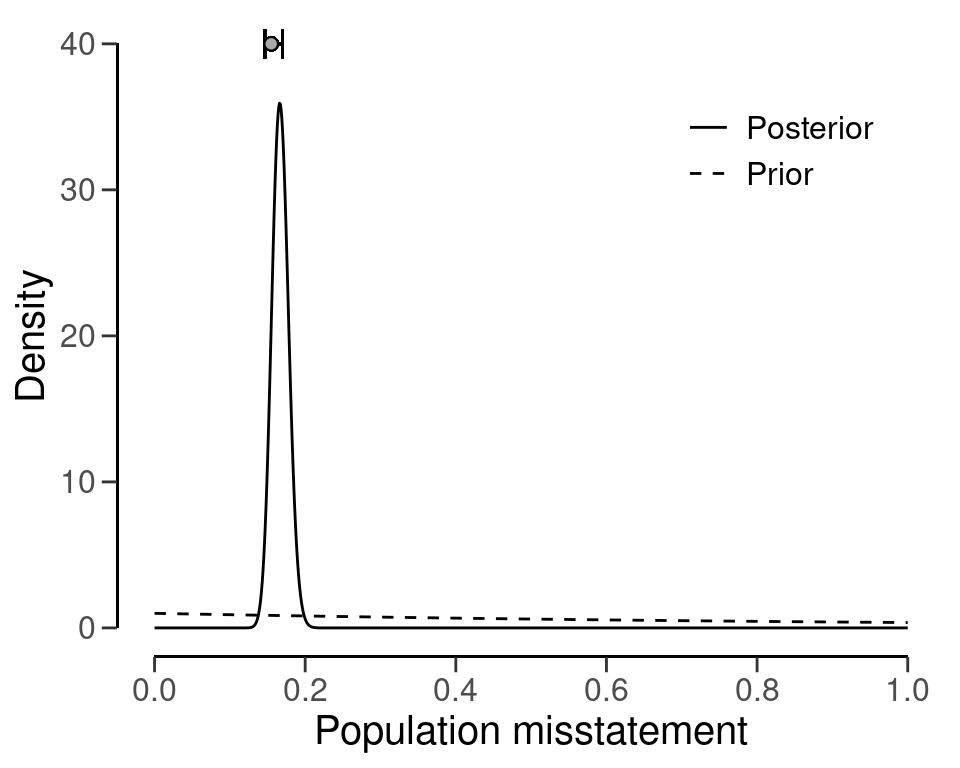
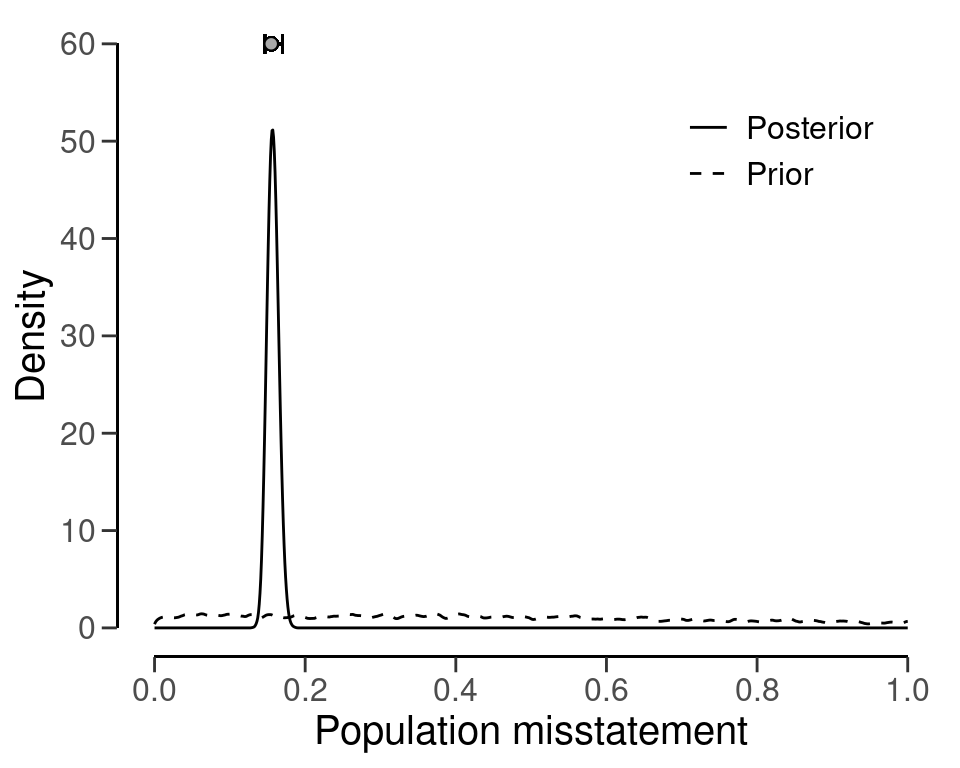
Built site for gh-pages

diff --git a/chap-stratified-evaluation.html b/chap-stratified-evaluation.html
@@ -525,7 +525,7 @@ code span.wa { color: #60a0b0; font-weight: bold; font-style: italic; } /* Warni
 <span id="cb8-10"><a href="#cb8-10" aria-hidden="true" tabindex="-1"></a><span class="co">#&gt;   Materiality:                    0.05 </span></span>
 <span id="cb8-11"><a href="#cb8-11" aria-hidden="true" tabindex="-1"></a><span class="co">#&gt;   Hypotheses:                     H₀: Θ = 0.05 vs. H₁: Θ ≠ 0.05 </span></span>
 <span id="cb8-12"><a href="#cb8-12" aria-hidden="true" tabindex="-1"></a><span class="co">#&gt;   Method:                         binomial </span></span>
-<span id="cb8-13"><a href="#cb8-13" aria-hidden="true" tabindex="-1"></a><span class="co">#&gt;   Prior distribution:             beta(α = 1, β = 1) </span></span>
+<span id="cb8-13"><a href="#cb8-13" aria-hidden="true" tabindex="-1"></a><span class="co">#&gt;   Prior distribution:             Nonparametric </span></span>
 <span id="cb8-14"><a href="#cb8-14" aria-hidden="true" tabindex="-1"></a><span class="co">#&gt; </span></span>
 <span id="cb8-15"><a href="#cb8-15" aria-hidden="true" tabindex="-1"></a><span class="co">#&gt; Data:</span></span>
 <span id="cb8-16"><a href="#cb8-16" aria-hidden="true" tabindex="-1"></a><span class="co">#&gt;   Sample size:                    2575 </span></span>
@@ -533,11 +533,11 @@ code span.wa { color: #60a0b0; font-weight: bold; font-style: italic; } /* Warni
 <span id="cb8-18"><a href="#cb8-18" aria-hidden="true" tabindex="-1"></a><span class="co">#&gt;   Sum of taints:                  115 </span></span>
 <span id="cb8-19"><a href="#cb8-19" aria-hidden="true" tabindex="-1"></a><span class="co">#&gt; </span></span>
 <span id="cb8-20"><a href="#cb8-20" aria-hidden="true" tabindex="-1"></a><span class="co">#&gt; Results:</span></span>
-<span id="cb8-21"><a href="#cb8-21" aria-hidden="true" tabindex="-1"></a><span class="co">#&gt;   Posterior distribution:         beta(α = 116, β = 2461) </span></span>
+<span id="cb8-21"><a href="#cb8-21" aria-hidden="true" tabindex="-1"></a><span class="co">#&gt;   Posterior distribution:         Nonparametric </span></span>
 <span id="cb8-22"><a href="#cb8-22" aria-hidden="true" tabindex="-1"></a><span class="co">#&gt;   Most likely error:              0.0432 </span></span>
 <span id="cb8-23"><a href="#cb8-23" aria-hidden="true" tabindex="-1"></a><span class="co">#&gt;   95 percent credible interval:   [0.034575, 0.052994] </span></span>
 <span id="cb8-24"><a href="#cb8-24" aria-hidden="true" tabindex="-1"></a><span class="co">#&gt;   Precision:                      0.0097941 </span></span>
-<span id="cb8-25"><a href="#cb8-25" aria-hidden="true" tabindex="-1"></a><span class="co">#&gt;   BF₁₀:                            0.022725 </span></span>
+<span id="cb8-25"><a href="#cb8-25" aria-hidden="true" tabindex="-1"></a><span class="co">#&gt;   BF₁₀:                            0.02178 </span></span>
 <span id="cb8-26"><a href="#cb8-26" aria-hidden="true" tabindex="-1"></a><span class="co">#&gt; </span></span>
 <span id="cb8-27"><a href="#cb8-27" aria-hidden="true" tabindex="-1"></a><span class="co">#&gt; Strata (20):</span></span>
 <span id="cb8-28"><a href="#cb8-28" aria-hidden="true" tabindex="-1"></a><span class="co">#&gt;        N   n  x  t    mle      lb      ub precision</span></span>
@@ -676,7 +676,7 @@ code span.wa { color: #60a0b0; font-weight: bold; font-style: italic; } /* Warni
 <span id="cb15-9"><a href="#cb15-9" aria-hidden="true" tabindex="-1"></a><span class="co">#&gt;   Materiality:                    0.05 </span></span>
 <span id="cb15-10"><a href="#cb15-10" aria-hidden="true" tabindex="-1"></a><span class="co">#&gt;   Hypotheses:                     H₀: Θ = 0.05 vs. H₁: Θ ≠ 0.05 </span></span>
 <span id="cb15-11"><a href="#cb15-11" aria-hidden="true" tabindex="-1"></a><span class="co">#&gt;   Method:                         poisson </span></span>
-<span id="cb15-12"><a href="#cb15-12" aria-hidden="true" tabindex="-1"></a><span class="co">#&gt;   Prior distribution:             gamma(α = 1, β = 1) </span></span>
+<span id="cb15-12"><a href="#cb15-12" aria-hidden="true" tabindex="-1"></a><span class="co">#&gt;   Prior distribution:             Nonparametric </span></span>
 <span id="cb15-13"><a href="#cb15-13" aria-hidden="true" tabindex="-1"></a><span class="co">#&gt; </span></span>
 <span id="cb15-14"><a href="#cb15-14" aria-hidden="true" tabindex="-1"></a><span class="co">#&gt; Data:</span></span>
 <span id="cb15-15"><a href="#cb15-15" aria-hidden="true" tabindex="-1"></a><span class="co">#&gt;   Sample size:                    1350 </span></span>
@@ -684,11 +684,11 @@ code span.wa { color: #60a0b0; font-weight: bold; font-style: italic; } /* Warni
 <span id="cb15-17"><a href="#cb15-17" aria-hidden="true" tabindex="-1"></a><span class="co">#&gt;   Sum of taints:                  224.657517 </span></span>
 <span id="cb15-18"><a href="#cb15-18" aria-hidden="true" tabindex="-1"></a><span class="co">#&gt; </span></span>
 <span id="cb15-19"><a href="#cb15-19" aria-hidden="true" tabindex="-1"></a><span class="co">#&gt; Results:</span></span>
-<span id="cb15-20"><a href="#cb15-20" aria-hidden="true" tabindex="-1"></a><span class="co">#&gt;   Posterior distribution:         gamma(α = 225.658, β = 1351) </span></span>
+<span id="cb15-20"><a href="#cb15-20" aria-hidden="true" tabindex="-1"></a><span class="co">#&gt;   Posterior distribution:         Nonparametric </span></span>
 <span id="cb15-21"><a href="#cb15-21" aria-hidden="true" tabindex="-1"></a><span class="co">#&gt;   Most likely error:              0.1549 </span></span>
 <span id="cb15-22"><a href="#cb15-22" aria-hidden="true" tabindex="-1"></a><span class="co">#&gt;   95 percent credible interval:   [0.14616, 0.17] </span></span>
 <span id="cb15-23"><a href="#cb15-23" aria-hidden="true" tabindex="-1"></a><span class="co">#&gt;   Precision:                      0.015096 </span></span>
-<span id="cb15-24"><a href="#cb15-24" aria-hidden="true" tabindex="-1"></a><span class="co">#&gt;   BF₁₀:                            2.751e+47 </span></span>
+<span id="cb15-24"><a href="#cb15-24" aria-hidden="true" tabindex="-1"></a><span class="co">#&gt;   BF₁₀:                            Inf </span></span>
 <span id="cb15-25"><a href="#cb15-25" aria-hidden="true" tabindex="-1"></a><span class="co">#&gt; </span></span>
 <span id="cb15-26"><a href="#cb15-26" aria-hidden="true" tabindex="-1"></a><span class="co">#&gt; Strata (16):</span></span>
 <span id="cb15-27"><a href="#cb15-27" aria-hidden="true" tabindex="-1"></a><span class="co">#&gt;             N   n   x         t    mle      lb      ub precision</span></span>

diff --git a/introduction.html b/introduction.html
@@ -433,7 +433,7 @@ Note
 <span id="cb6-9"><a href="#cb6-9" aria-hidden="true" tabindex="-1"></a><span class="co">#&gt;  collate  C.UTF-8</span></span>
 <span id="cb6-10"><a href="#cb6-10" aria-hidden="true" tabindex="-1"></a><span class="co">#&gt;  ctype    C.UTF-8</span></span>
 <span id="cb6-11"><a href="#cb6-11" aria-hidden="true" tabindex="-1"></a><span class="co">#&gt;  tz       UTC</span></span>
-<span id="cb6-12"><a href="#cb6-12" aria-hidden="true" tabindex="-1"></a><span class="co">#&gt;  date     2023-02-03</span></span>
+<span id="cb6-12"><a href="#cb6-12" aria-hidden="true" tabindex="-1"></a><span class="co">#&gt;  date     2023-02-04</span></span>
 <span id="cb6-13"><a href="#cb6-13" aria-hidden="true" tabindex="-1"></a><span class="co">#&gt;  pandoc   NA (via rmarkdown)</span></span>
 <span id="cb6-14"><a href="#cb6-14" aria-hidden="true" tabindex="-1"></a><span class="co">#&gt; </span></span>
 <span id="cb6-15"><a href="#cb6-15" aria-hidden="true" tabindex="-1"></a><span class="co">#&gt; ─ Packages ────────────────────────────────────────────────────────────────</span></span>
@@ -453,7 +453,7 @@ Note
 <span id="cb6-29"><a href="#cb6-29" aria-hidden="true" tabindex="-1"></a><span class="co">#&gt;    gtable         0.3.1    2022-09-01 [1] CRAN (R 4.2.2)</span></span>
 <span id="cb6-30"><a href="#cb6-30" aria-hidden="true" tabindex="-1"></a><span class="co">#&gt;    htmltools      0.5.4    2022-12-07 [1] CRAN (R 4.2.2)</span></span>
 <span id="cb6-31"><a href="#cb6-31" aria-hidden="true" tabindex="-1"></a><span class="co">#&gt;    inline         0.3.19   2021-05-31 [1] CRAN (R 4.2.2)</span></span>
-<span id="cb6-32"><a href="#cb6-32" aria-hidden="true" tabindex="-1"></a><span class="co">#&gt;    jfa          * 0.6.5    2023-02-03 [1] Github (koenderks/jfa@c303b12)</span></span>
+<span id="cb6-32"><a href="#cb6-32" aria-hidden="true" tabindex="-1"></a><span class="co">#&gt;    jfa          * 0.6.5    2023-02-04 [1] Github (koenderks/jfa@21a26fc)</span></span>
 <span id="cb6-33"><a href="#cb6-33" aria-hidden="true" tabindex="-1"></a><span class="co">#&gt;    jsonlite       1.8.4    2022-12-06 [1] CRAN (R 4.2.2)</span></span>
 <span id="cb6-34"><a href="#cb6-34" aria-hidden="true" tabindex="-1"></a><span class="co">#&gt;    knitr          1.42     2023-01-25 [1] CRAN (R 4.2.2)</span></span>
 <span id="cb6-35"><a href="#cb6-35" aria-hidden="true" tabindex="-1"></a><span class="co">#&gt;    lifecycle      1.0.3    2022-10-07 [1] CRAN (R 4.2.2)</span></span>

diff --git a/index.html b/index.html
@@ -7,7 +7,7 @@
 <meta name="viewport" content="width=device-width, initial-scale=1.0, user-scalable=yes">
 
 <meta name="author" content="Koen Derks">
-<meta name="dcterms.date" content="2023-02-03">
+<meta name="dcterms.date" content="2023-02-04">
 
 <title>Statistical Audit Sampling with R</title>
 <style>
@@ -309,7 +309,7 @@ code span.wa { color: #60a0b0; font-weight: bold; font-style: italic; } /* Warni
     <div>
     <div class="quarto-title-meta-heading">Published</div>
     <div class="quarto-title-meta-contents">
-      <p class="date">February 3, 2023</p>
+      <p class="date">February 4, 2023</p>
     </div>
   </div>
   
